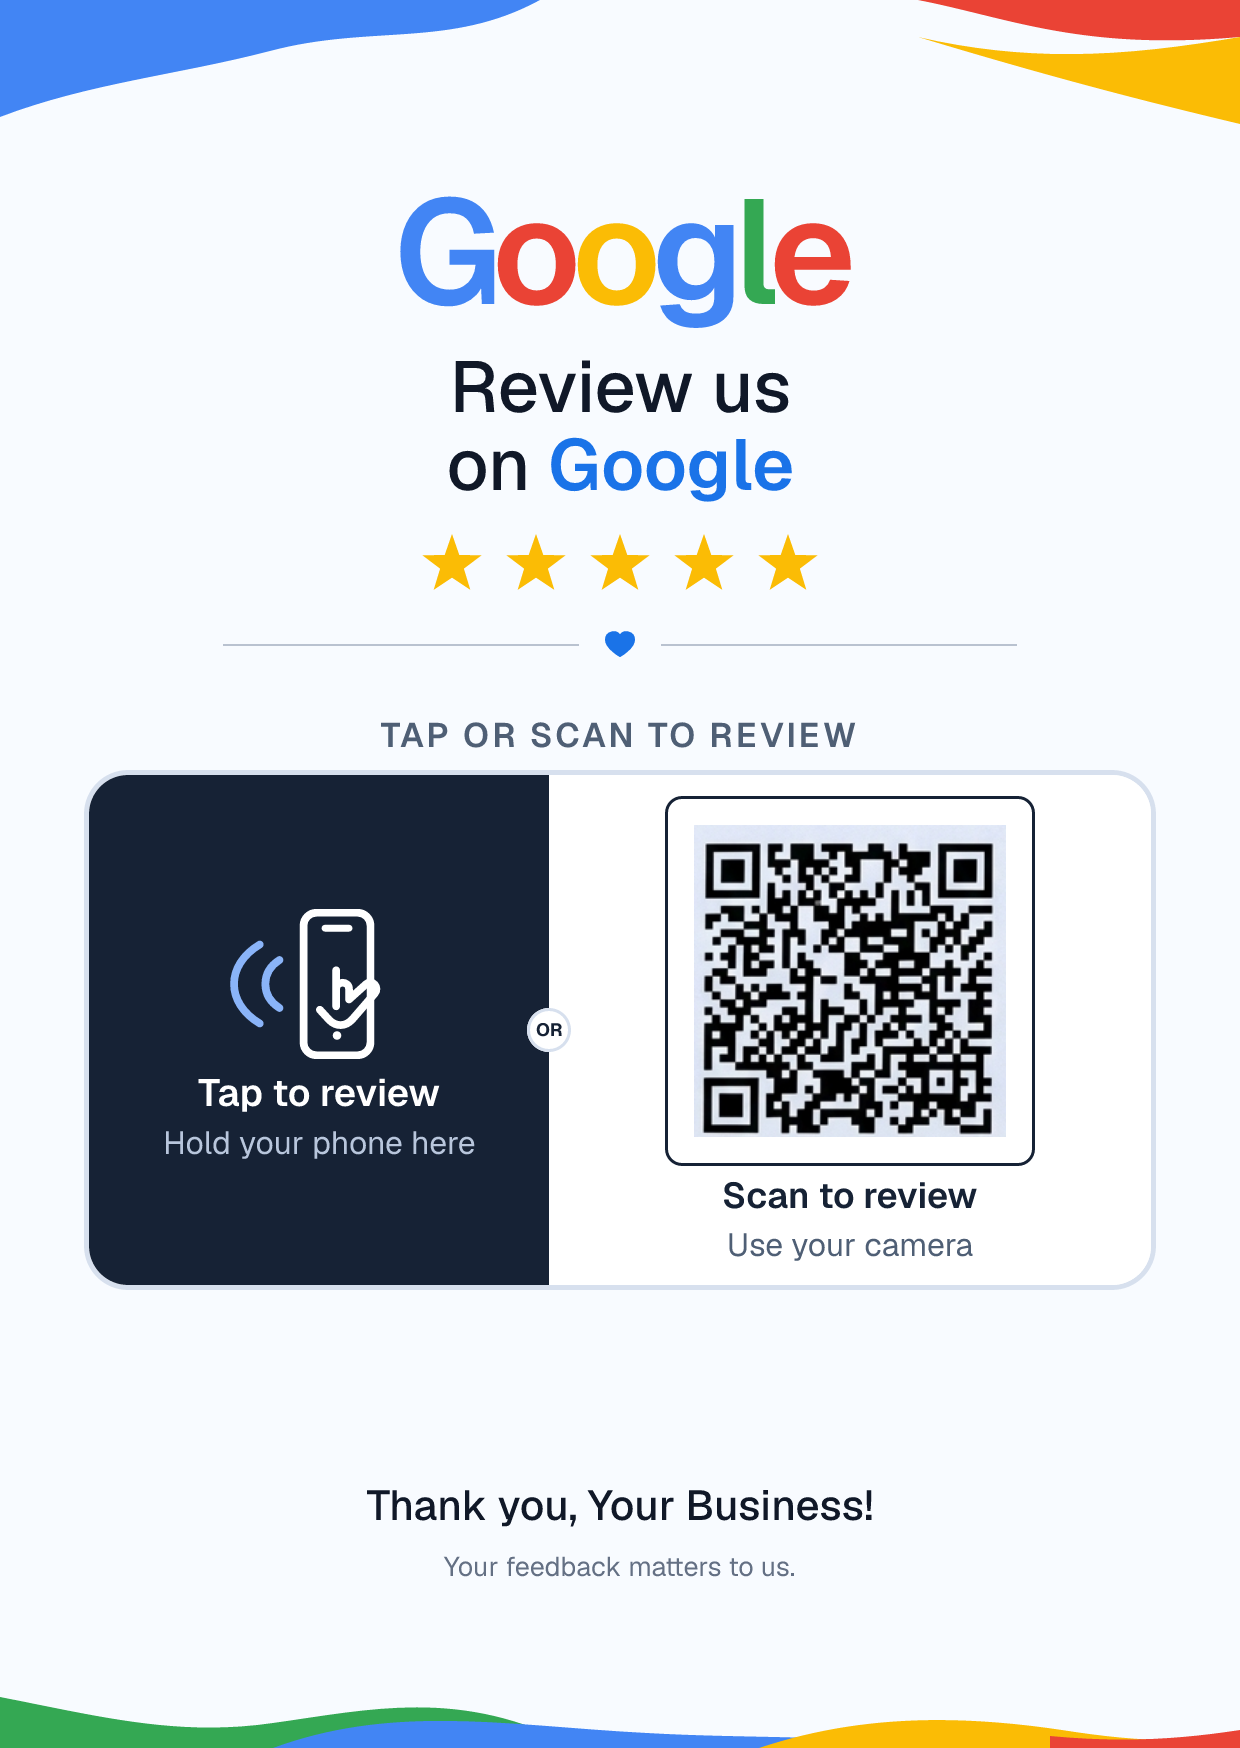
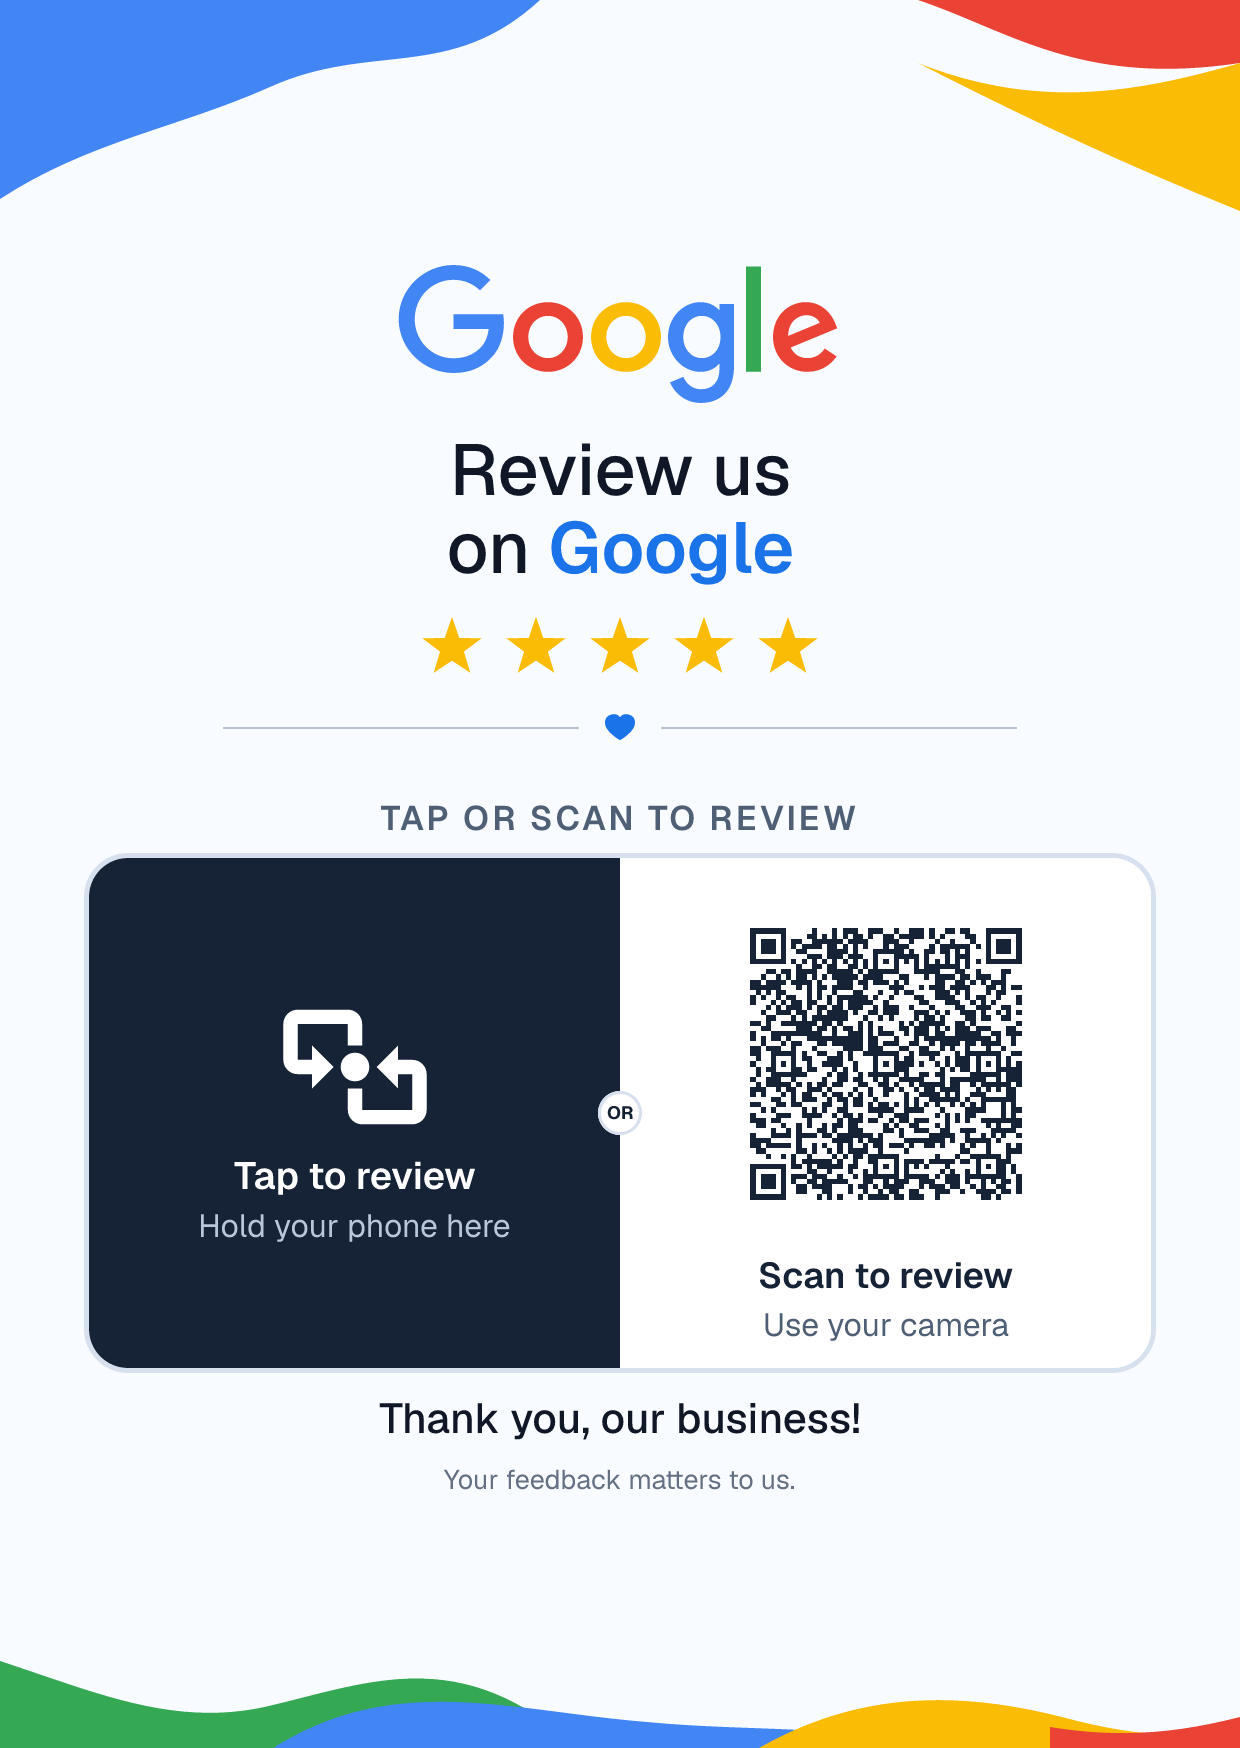
feat(qr): improve Google review card template

diff --git a/src/templates/google-review-card.tsx b/src/templates/google-review-card.tsx
@@ -1,13 +1,23 @@
 import type { CSSProperties } from "react"
+import QRCode from "qrcode"
+import { googleFonts } from "takumi-js/helpers"
 
 export const GOOGLE_REVIEW_CARD_SIZE = {
   width: 1240,
   height: 1748,
 } as const
 
+export const GOOGLE_REVIEW_CARD_FONT_FAMILY = "Geist"
+export const GOOGLE_REVIEW_CARD_FONTS = googleFonts([
+  { name: GOOGLE_REVIEW_CARD_FONT_FAMILY, weight: "100..900" },
+])
+
+const QR_RENDER_SIZE = 312
+const COLOR_WAVE_HEIGHT = 211
+
 export type GoogleReviewCardProps = {
-  /** A data URL or an image key registered in Takumi's render options. */
-  qrCode: string
+  /** The URL encoded in the QR code. */
+  qrUrl: string
   businessName?: string
 }
 
@@ -15,31 +25,35 @@ const columnStyle: CSSProperties = {
   display: "flex",
   flexDirection: "column",
   alignItems: "center",
+  fontFamily: GOOGLE_REVIEW_CARD_FONT_FAMILY,
 }
 
 function GoogleWordmark() {
   return (
-    <div
-      aria-label="Google"
-      style={{
-        display: "flex",
-        alignItems: "baseline",
-        justifyContent: "center",
-        fontFamily: "Geist",
-        fontSize: "148px",
-        fontWeight: 600,
-        letterSpacing: "-10px",
-        lineHeight: 1,
-        whiteSpace: "nowrap",
-      }}
-    >
-      <span style={{ color: "#4285f4" }}>G</span>
-      <span style={{ color: "#ea4335" }}>o</span>
-      <span style={{ color: "#fbbc05" }}>o</span>
-      <span style={{ color: "#4285f4" }}>g</span>
-      <span style={{ color: "#34a853" }}>l</span>
-      <span style={{ color: "#ea4335" }}>e</span>
-    </div>
+    // Google wordmark paths from Google's published gstatic SVG asset.
+    <svg aria-label="Google" height="144" role="img" viewBox="0 0 74 24" width="444">
+      <path
+        d="M9.24 8.19v2.46h5.88c-.18 1.38-.64 2.39-1.34 3.1-.86.86-2.2 1.8-4.54 1.8-3.62 0-6.45-2.92-6.45-6.54s2.83-6.54 6.45-6.54c1.95 0 3.38.77 4.43 1.76L15.4 2.5C13.94 1.08 11.98 0 9.24 0 4.28 0 .11 4.04.11 9s4.17 9 9.13 9c2.68 0 4.7-.88 6.28-2.52 1.62-1.62 2.13-3.91 2.13-5.75 0-.57-.04-1.1-.13-1.54H9.24z"
+        fill="#4285F4"
+      />
+      <path
+        d="M25 6.19c-3.21 0-5.83 2.44-5.83 5.81 0 3.34 2.62 5.81 5.83 5.81s5.83-2.46 5.83-5.81c0-3.37-2.62-5.81-5.83-5.81zm0 9.33c-1.76 0-3.28-1.45-3.28-3.52 0-2.09 1.52-3.52 3.28-3.52s3.28 1.43 3.28 3.52c0 2.07-1.52 3.52-3.28 3.52z"
+        fill="#EA4335"
+      />
+      <path
+        d="M53.58 7.49h-.09c-.57-.68-1.67-1.3-3.06-1.3C47.53 6.19 45 8.72 45 12c0 3.26 2.53 5.81 5.43 5.81 1.39 0 2.49-.62 3.06-1.32h.09v.81c0 2.22-1.19 3.41-3.1 3.41-1.56 0-2.53-1.12-2.93-2.07l-2.22.92c.64 1.54 2.33 3.43 5.15 3.43 2.99 0 5.52-1.76 5.52-6.05V6.49h-2.42v1zm-2.93 8.03c-1.76 0-3.1-1.5-3.1-3.52 0-2.05 1.34-3.52 3.1-3.52 1.74 0 3.1 1.5 3.1 3.54.01 2.03-1.36 3.5-3.1 3.5z"
+        fill="#4285F4"
+      />
+      <path
+        d="M38 6.19c-3.21 0-5.83 2.44-5.83 5.81 0 3.34 2.62 5.81 5.83 5.81s5.83-2.46 5.83-5.81c0-3.37-2.62-5.81-5.83-5.81zm0 9.33c-1.76 0-3.28-1.45-3.28-3.52 0-2.09 1.52-3.52 3.28-3.52s3.28 1.43 3.28 3.52c0 2.07-1.52 3.52-3.28 3.52z"
+        fill="#FBBC05"
+      />
+      <path d="M58 .24h2.51v17.57H58z" fill="#34A853" />
+      <path
+        d="M68.26 15.52c-1.3 0-2.22-.59-2.82-1.76l7.77-3.21-.26-.66c-.48-1.3-1.96-3.7-4.97-3.7-2.99 0-5.48 2.35-5.48 5.81 0 3.26 2.46 5.81 5.76 5.81 2.66 0 4.2-1.63 4.84-2.57l-1.98-1.32c-.66.96-1.56 1.6-2.86 1.6zm-.18-7.15c1.03 0 1.91.53 2.2 1.28l-5.25 2.17c0-2.44 1.73-3.45 3.05-3.45z"
+        fill="#EA4335"
+      />
+    </svg>
   )
 }
 
@@ -66,20 +80,47 @@ function HeartIcon({ color = "#1a73e8", size = 38 }: { color?: string; size?: nu
 }
 
 function NfcTapIcon({ color = "#162235" }: { color?: string }) {
+  // Material Design Icons `mdi:nfc-tap`, distributed under Apache 2.0.
   return (
-    <svg aria-hidden="true" fill="none" height="172" viewBox="0 0 240 200" width="206">
-      <path d="M74 72c-22 14-22 42 0 56" stroke="#8ab4f8" strokeLinecap="round" strokeWidth="9" />
-      <path d="M51 54C11 78 11 122 51 146" stroke="#8ab4f8" strokeLinecap="round" strokeWidth="9" />
-      <rect height="166" rx="15" stroke={color} strokeWidth="9" width="78" x="102" y="17" />
-      <path d="M127 35h28" stroke={color} strokeLinecap="round" strokeWidth="8" />
-      <circle cx="141" cy="160" fill={color} r="5" />
+    <svg aria-hidden="true" height={172} viewBox="0 0 24 24" width={172}>
       <path
-        d="M140 84v42m0-20c0-10 15-10 15 0v12l20-18c7-6 16 4 10 11l-26 30c-8 9-19 9-27 1l-11-12"
-        stroke={color}
-        strokeLinecap="round"
-        strokeLinejoin="round"
-        strokeWidth="9"
+        d="M12 10a2 2 0 0 1 2 2a2 2 0 0 1-2 2a2 2 0 0 1-2-2a2 2 0 0 1 2-2M4 4h7a2 2 0 0 1 2 2v3h-2V6H4v5h2V9l3 3l-3 3v-2H4a2 2 0 0 1-2-2V6a2 2 0 0 1 2-2m16 16h-7a2 2 0 0 1-2-2v-3h2v3h7v-5h-2v2l-3-3l3-3v2h2a2 2 0 0 1 2 2v5a2 2 0 0 1-2 2"
+        fill={color}
       />
+    </svg>
+  )
+}
+
+function QrCode({ qrUrl }: { qrUrl: string }) {
+  const { modules } = QRCode.create(qrUrl, { errorCorrectionLevel: "H" })
+  const quietZone = 4
+  let path = ""
+
+  for (let row = 0; row < modules.size; row += 1) {
+    for (let column = 0; column < modules.size; column += 1) {
+      if (modules.data[row * modules.size + column]) {
+        path += `M${column} ${row}h1v1h-1z`
+      }
+    }
+  }
+
+  return (
+    <svg
+      aria-label="QR code for leaving a Google review"
+      height={QR_RENDER_SIZE}
+      role="img"
+      shapeRendering="crispEdges"
+      viewBox={`${-quietZone} ${-quietZone} ${modules.size + quietZone * 2} ${modules.size + quietZone * 2}`}
+      width={QR_RENDER_SIZE}
+    >
+      <rect
+        fill="#ffffff"
+        height={modules.size + quietZone * 2}
+        width={modules.size + quietZone * 2}
+        x={-quietZone}
+        y={-quietZone}
+      />
+      <path d={path} fill="#162235" />
     </svg>
   )
 }
@@ -110,7 +151,7 @@ function ColorWave({ position }: { position: "top" | "bottom" }) {
       style={{
         backgroundColor: "#f8fbff",
         flexShrink: 0,
-        height: "124px",
+        height: `${COLOR_WAVE_HEIGHT}px`,
         overflow: "hidden",
         position: "relative",
         width: "100%",
@@ -118,7 +159,7 @@ function ColorWave({ position }: { position: "top" | "bottom" }) {
     >
       <svg
         aria-hidden="true"
-        height="124"
+        height={COLOR_WAVE_HEIGHT}
         preserveAspectRatio="none"
         style={{
           bottom: isTop ? undefined : 0,
@@ -126,21 +167,21 @@ function ColorWave({ position }: { position: "top" | "bottom" }) {
           top: isTop ? 0 : undefined,
           width: "100%",
         }}
-        viewBox="0 0 1240 124"
+        viewBox="0 0 1240 211"
         width="1240"
       >
         {isTop ? (
           <>
-            <path d="M0 0h540c-90 49-168 24-270 51C178 75 89 83 0 117V0Z" fill="#4285f4" />
-            <path d="M1240 0H918c92 18 163 51 322 37V0Z" fill="#ea4335" />
-            <path d="M1240 37v87c-101-24-193-48-322-87 121 28 221 17 322 0Z" fill="#fbbc05" />
+            <path d="M0 0h540c-90 83-168 41-270 87C178 128 89 141 0 199V0Z" fill="#4285f4" />
+            <path d="M1240 0H918c92 31 163 87 322 63V0Z" fill="#ea4335" />
+            <path d="M1240 63v148c-101-41-193-82-322-148 121 48 221 29 322 0Z" fill="#fbbc05" />
           </>
         ) : (
           <>
-            <path d="M0 124V73c98 19 177 40 273 26 100-14 190-36 305 25H0Z" fill="#34a853" />
-            <path d="M273 124c122-45 237-22 374-15 105 6 194 1 290 15H273Z" fill="#4285f4" />
-            <path d="M759 124c93-31 189-35 303-18 63 10 119 14 178 6v12H759Z" fill="#fbbc05" />
-            <path d="M1050 112c74 7 131 3 190-6v18h-190Z" fill="#ea4335" />
+            <path d="M0 211V124c98 32 177 68 273 44 100-24 190-61 305 43H0Z" fill="#34a853" />
+            <path d="M273 211c122-77 237-37 374-26 105 10 194 2 290 26H273Z" fill="#4285f4" />
+            <path d="M759 211c93-53 189-60 303-31 63 17 119 24 178 10v21H759Z" fill="#fbbc05" />
+            <path d="M1050 190c74 12 131 5 190-10v31h-190Z" fill="#ea4335" />
           </>
         )}
       </svg>
@@ -148,7 +189,7 @@ function ColorWave({ position }: { position: "top" | "bottom" }) {
   )
 }
 
-function ActionPanel({ qrCode }: { qrCode: string }) {
+function ActionPanel({ qrUrl }: { qrUrl: string }) {
   return (
     <div
       style={{
@@ -177,7 +218,7 @@ function ActionPanel({ qrCode }: { qrCode: string }) {
             ...columnStyle,
             backgroundColor: "#162235",
             boxSizing: "border-box",
-            flex: 0.85,
+            flex: 1,
             height: "100%",
             justifyContent: "center",
             padding: "30px",
@@ -187,7 +228,7 @@ function ActionPanel({ qrCode }: { qrCode: string }) {
           <div
             style={{
               color: "#ffffff",
-              fontFamily: "Geist",
+              fontFamily: GOOGLE_REVIEW_CARD_FONT_FAMILY,
               fontSize: "38px",
               fontWeight: 600,
               lineHeight: 1,
@@ -199,7 +240,7 @@ function ActionPanel({ qrCode }: { qrCode: string }) {
           <div
             style={{
               color: "#b8c6dc",
-              fontFamily: "Geist",
+              fontFamily: GOOGLE_REVIEW_CARD_FONT_FAMILY,
               fontSize: "32px",
               lineHeight: 1.2,
               marginTop: "12px",
@@ -237,7 +278,7 @@ function ActionPanel({ qrCode }: { qrCode: string }) {
             ...columnStyle,
             backgroundColor: "#ffffff",
             boxSizing: "border-box",
-            flex: 1.15,
+            flex: 1,
             height: "100%",
             justifyContent: "center",
             padding: "30px",
@@ -247,7 +288,6 @@ function ActionPanel({ qrCode }: { qrCode: string }) {
             style={{
               alignItems: "center",
               backgroundColor: "#ffffff",
-              border: "3px solid #162235",
               borderRadius: "17px",
               boxSizing: "border-box",
               display: "flex",
@@ -257,16 +297,12 @@ function ActionPanel({ qrCode }: { qrCode: string }) {
               width: "370px",
             }}
           >
-            <img
-              alt="QR code for leaving a Google review"
-              src={qrCode}
-              style={{ display: "block", height: "100%", objectFit: "contain", width: "100%" }}
-            />
+            <QrCode qrUrl={qrUrl} />
           </div>
           <div
             style={{
               color: "#162235",
-              fontFamily: "Geist",
+              fontFamily: GOOGLE_REVIEW_CARD_FONT_FAMILY,
               fontSize: "36px",
               fontWeight: 600,
               lineHeight: 1,
@@ -278,7 +314,7 @@ function ActionPanel({ qrCode }: { qrCode: string }) {
           <div
             style={{
               color: "#4f5f75",
-              fontFamily: "Geist",
+              fontFamily: GOOGLE_REVIEW_CARD_FONT_FAMILY,
               fontSize: "32px",
               lineHeight: 1.2,
               marginTop: "12px",
@@ -292,7 +328,7 @@ function ActionPanel({ qrCode }: { qrCode: string }) {
   )
 }
 
-export function GoogleReviewCard({ businessName = "our business", qrCode }: GoogleReviewCardProps) {
+export function GoogleReviewCard({ businessName = "our business", qrUrl }: GoogleReviewCardProps) {
   return (
     <div
       style={{
@@ -300,7 +336,7 @@ export function GoogleReviewCard({ businessName = "our business", qrCode }: Goog
         boxSizing: "border-box",
         display: "flex",
         flexDirection: "column",
-        fontFamily: "Geist",
+        fontFamily: GOOGLE_REVIEW_CARD_FONT_FAMILY,
         height: "100%",
         overflow: "hidden",
         width: "100%",
@@ -324,7 +360,7 @@ export function GoogleReviewCard({ businessName = "our business", qrCode }: Goog
           <div
             style={{
               color: "#101828",
-              fontFamily: "Geist",
+              fontFamily: GOOGLE_REVIEW_CARD_FONT_FAMILY,
               fontSize: "72px",
               fontWeight: 500,
               lineHeight: 1.08,
@@ -371,14 +407,14 @@ export function GoogleReviewCard({ businessName = "our business", qrCode }: Goog
           >
             TAP OR SCAN TO REVIEW
           </div>
-          <ActionPanel qrCode={qrCode} />
+          <ActionPanel qrUrl={qrUrl} />
         </div>
 
         <div style={{ ...columnStyle, marginTop: "auto", width: "100%" }}>
           <div
             style={{
               color: "#101828",
-              fontFamily: "Geist",
+              fontFamily: GOOGLE_REVIEW_CARD_FONT_FAMILY,
               fontSize: "42px",
               fontWeight: 500,
               lineHeight: 1.15,
